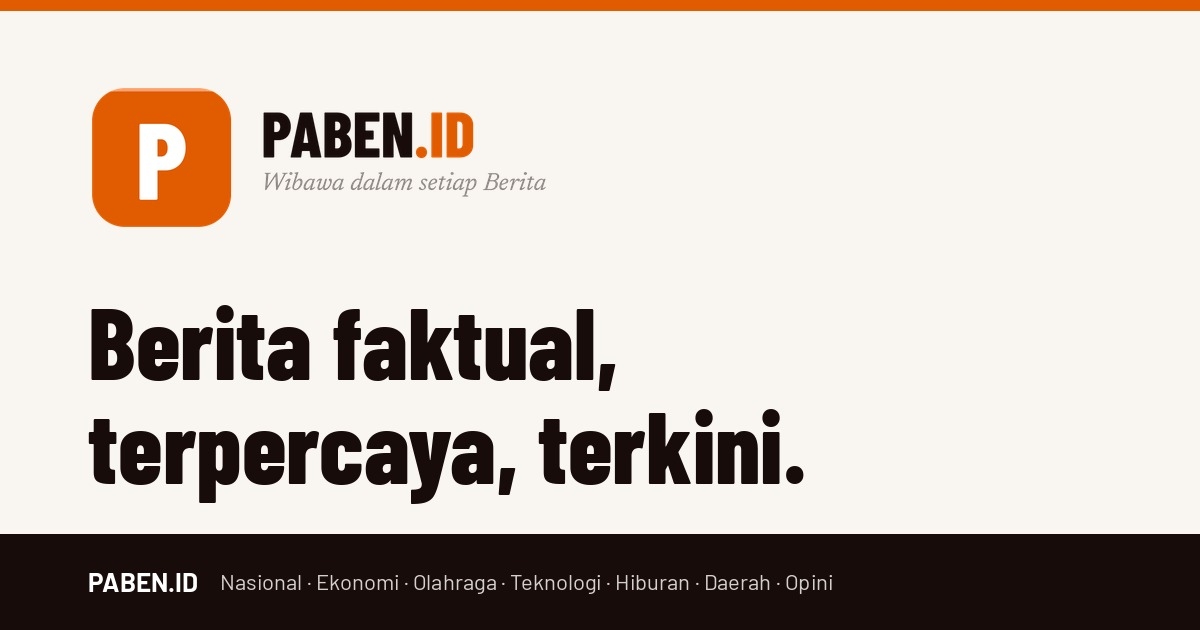
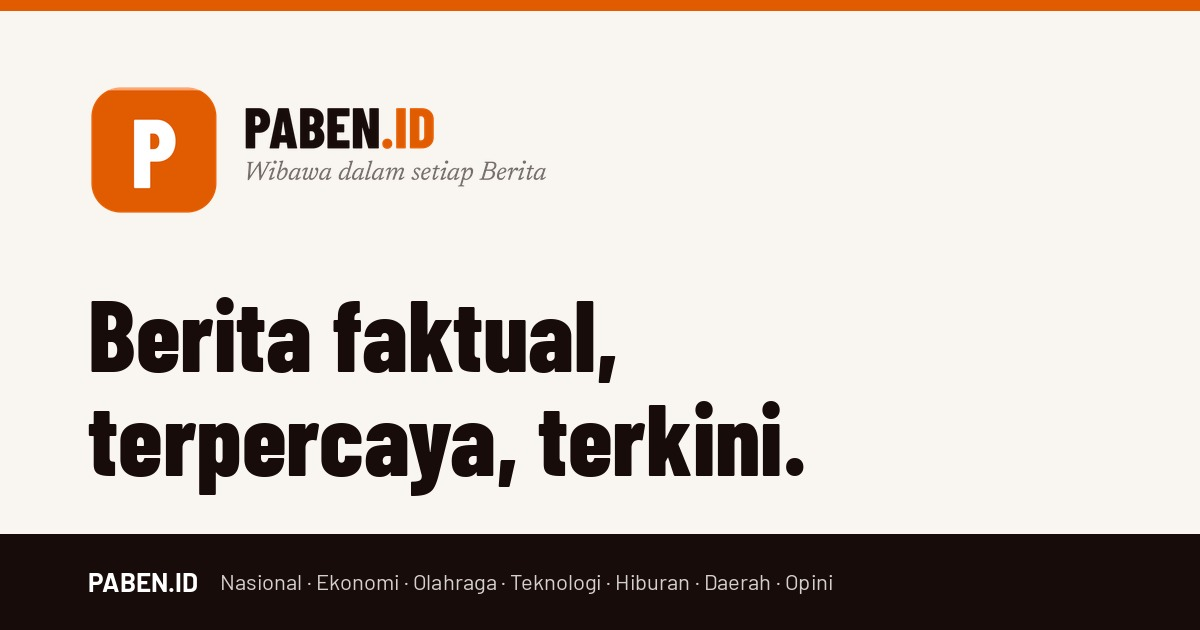
Add files via upload

diff --git a/src/components/Header.tsx b/src/components/Header.tsx
@@ -69,7 +69,7 @@ export const Header: React.FC<HeaderProps> = ({
     <header className="font-sans sticky top-0 z-50 border-b-4 border-[#e15b00] shadow-md">
       {/* Pita atas: latar putih, logo tampil apa adanya tanpa alas tambahan */}
       <div className="bg-white border-b border-stone-200">
-      <div className="flex justify-between items-center h-20 px-4 md:px-6 max-w-7xl mx-auto">
+      <div className="flex justify-between items-center h-24 px-4 md:px-6 max-w-7xl mx-auto">
         {/* Logo & Brand */}
         <div 
           className="flex items-center gap-3 cursor-pointer select-none flex-shrink-0"
@@ -84,7 +84,7 @@ export const Header: React.FC<HeaderProps> = ({
             decoding="async"
             src={logoUrl}
             alt="PABEN.ID - Wibawa dalam setiap Berita"
-            className="h-11 sm:h-12 md:h-14 w-auto object-contain hover:scale-105 transition-transform"
+            className="h-14 sm:h-16 md:h-[68px] w-auto object-contain hover:scale-105 transition-transform"
           />
         </div>
 
@@ -244,18 +244,28 @@ export const Header: React.FC<HeaderProps> = ({
       </div>
       </div>
 
-      {/* Pita kategori: navy, jadi penanda visual antara identitas dan navigasi */}
-      <div className="bg-[#170c0a] text-white">
-      <nav className="hidden lg:flex flex-wrap gap-x-6 gap-y-2 items-center px-4 md:px-6 py-2.5 max-w-7xl mx-auto">
+      {/*
+        Pita kanal — Jingga Tipis.
+
+        Warnanya nyaris sama terang dengan latar halaman (Kertas), jadi yang
+        memisahkan keduanya adalah garis jingga 4px di bawah <header> dan garis
+        putih di atas, bukan kontras warnanya sendiri.
+
+        Kanal dirata-tengahkan dan memakai flex-wrap, jadi menambah atau
+        mengurangi kanal dari panel admin tidak perlu penyesuaian apa pun —
+        barisnya melipat sendiri kalau sudah tidak muat.
+      */}
+      <div className="bg-[#ffece0] border-t border-white">
+      <nav className="hidden lg:flex flex-wrap justify-center gap-x-7 gap-y-2 items-center px-4 md:px-6 py-3 max-w-7xl mx-auto">
         <button
           onClick={() => {
             onSelectCategory('Semua');
             onGoHome();
           }}
-          className={`text-sm font-semibold text-white transition-colors duration-200 cursor-pointer active:scale-95 ${
+          className={`text-sm transition-colors duration-200 cursor-pointer active:scale-95 ${
             selectedCategory === 'Semua'
-              ? 'border-b-2 border-[#e15b00] pb-0.5'
-              : 'hover:text-[#fa9d68]'
+              ? 'font-bold text-[#a63c00] border-b-2 border-[#e15b00] pb-0.5'
+              : 'font-semibold text-[#170c0a] hover:text-[#a63c00]'
           }`}
         >
           Beranda
@@ -267,10 +277,16 @@ export const Header: React.FC<HeaderProps> = ({
               onSelectCategory(cat);
               onGoHome();
             }}
-            className={`text-sm font-semibold text-white transition-colors duration-200 cursor-pointer active:scale-95 ${
+            /*
+             * Kanal aktif memakai Jingga Tua, bukan Jingga Redaksi.
+             * Jingga Redaksi di atas Jingga Tipis hanya 3,2:1 — di bawah
+             * ambang 4,5:1 untuk teks. Jingga Tua mencapai 5,6:1. Garis
+             * bawahnya tetap Jingga Redaksi karena elemen grafis cukup 3:1.
+             */
+            className={`text-sm transition-colors duration-200 cursor-pointer active:scale-95 ${
               selectedCategory === cat
-                ? 'border-b-2 border-[#e15b00] pb-0.5'
-                : 'hover:text-[#fa9d68]'
+                ? 'font-bold text-[#a63c00] border-b-2 border-[#e15b00] pb-0.5'
+                : 'font-semibold text-[#170c0a] hover:text-[#a63c00]'
             }`}
           >
             {cat}

diff --git a/index.html b/index.html
@@ -4,7 +4,7 @@
     <meta charset="UTF-8" />
     <meta name="viewport" content="width=device-width, initial-scale=1.0" />
     <title>PABEN.ID - Wibawa dalam setiap Berita</title>
-    <meta name="description" content="PABEN.ID menyajikan berita faktual, terpercaya, dan terkini seputar nasional, ekonomi, olahraga, teknologi, hiburan, daerah, dan opini." />
+    <meta name="description" content="Wibawa dalam setiap Berita — PABEN.ID menyajikan berita faktual, terpercaya, dan terkini seputar nasional, ekonomi, olahraga, teknologi, hiburan, daerah, dan opini." />
     <meta name="keywords" content="paben, paben id, berita faktual, berita terkini, berita hari ini, portal berita" />
 
     <!--
@@ -44,7 +44,7 @@
     <meta property="og:type" content="website" />
     <meta property="og:site_name" content="PABEN.ID" />
     <meta property="og:title" content="PABEN.ID - Wibawa dalam setiap Berita" />
-    <meta property="og:description" content="PABEN.ID menyajikan berita faktual, terpercaya, dan terkini seputar nasional, ekonomi, olahraga, teknologi, hiburan, daerah, dan opini." />
+    <meta property="og:description" content="Wibawa dalam setiap Berita — PABEN.ID menyajikan berita faktual, terpercaya, dan terkini seputar nasional, ekonomi, olahraga, teknologi, hiburan, daerah, dan opini." />
     <meta property="og:image" content="https://paben.id/og-default.jpg" />
     <meta property="og:image:width" content="1200" />
     <meta property="og:image:height" content="630" />
@@ -53,7 +53,7 @@
     <!-- Twitter/X Card -->
     <meta name="twitter:card" content="summary_large_image" />
     <meta name="twitter:title" content="PABEN.ID - Wibawa dalam setiap Berita" />
-    <meta name="twitter:description" content="PABEN.ID menyajikan berita faktual, terpercaya, dan terkini seputar nasional, ekonomi, olahraga, teknologi, hiburan, daerah, dan opini." />
+    <meta name="twitter:description" content="Wibawa dalam setiap Berita — PABEN.ID menyajikan berita faktual, terpercaya, dan terkini seputar nasional, ekonomi, olahraga, teknologi, hiburan, daerah, dan opini." />
     <meta name="twitter:image" content="https://paben.id/og-default.jpg" />
   </head>
   <body>

diff --git a/middleware.ts b/middleware.ts
@@ -92,7 +92,7 @@ async function fetchArticle(articleId: string) {
 
   return {
     title: stripFirestoreValue(fields.title) ?? SITE_NAME,
-    excerpt: stripFirestoreValue(fields.excerpt) ?? 'Berita Faktual, Terpercaya, Terkini',
+    excerpt: stripFirestoreValue(fields.excerpt) ?? 'Wibawa dalam setiap Berita',
     imageUrl: stripFirestoreValue(fields.imageUrl) ?? DEFAULT_IMAGE,
     category: stripFirestoreValue(fields.category) ?? '',
   };
@@ -183,8 +183,9 @@ export default async function middleware(request: Request) {
       title: 'Wibawa dalam setiap Berita',
       type: 'website',
       description:
-        'PABEN.ID menyajikan berita faktual, terpercaya, dan terkini seputar ' +
-        'nasional, ekonomi, olahraga, teknologi, hiburan, daerah, dan opini.',
+        'Wibawa dalam setiap Berita — PABEN.ID menyajikan berita faktual, ' +
+        'terpercaya, dan terkini seputar nasional, ekonomi, olahraga, ' +
+        'teknologi, hiburan, daerah, dan opini.',
       image: `${origin}/og-default.jpg`,
       imageWidth: 1200,
       imageHeight: 630,

diff --git a/src/components/Footer.tsx b/src/components/Footer.tsx
@@ -36,8 +36,9 @@ export const Footer: React.FC<FooterProps> = ({ categories, onSelectCategory, on
             Wibawa dalam setiap Berita
           </p>
           <p className="text-stone-400 leading-relaxed">
-            PABEN.ID menyajikan berita faktual, terpercaya, dan terkini seputar
-            nasional, ekonomi, olahraga, teknologi, hiburan, daerah, dan opini.
+            Berita faktual, terpercaya, dan terkini seputar nasional, ekonomi,
+            olahraga, teknologi, hiburan, daerah, dan opini — dengan wibawa di
+            setiap beritanya.
           </p>
           <p className="mt-auto text-stone-500 font-mono text-[11px] pt-4">
             © 2026 PABEN.ID. All Rights Reserved.

diff --git a/api/_firestore.js b/api/_firestore.js
@@ -41,7 +41,7 @@ export function siteUrlFrom(req) {
 export const SITE_URL = (process.env.SITE_URL || SITE_URL_FALLBACK).replace(/\/$/, '');
 export const SITE_NAME = 'PABEN.ID';
 export const SITE_DESC =
-  'PABEN.ID menyajikan berita faktual, terpercaya, dan terkini seputar nasional, ekonomi, olahraga, teknologi, hiburan, daerah, dan opini.';
+  'Wibawa dalam setiap Berita — PABEN.ID menyajikan berita faktual, terpercaya, dan terkini seputar nasional, ekonomi, olahraga, teknologi, hiburan, daerah, dan opini.';
 
 function nilai(field) {
   if (!field) return undefined;

diff --git a/src/lib/seo.ts b/src/lib/seo.ts
@@ -20,8 +20,9 @@ import { useEffect } from 'react';
 
 const SITE_NAME = 'PABEN.ID';
 const DEFAULT_DESC =
-  'PABEN.ID menyajikan berita faktual, terpercaya, dan terkini seputar ' +
-  'nasional, ekonomi, olahraga, teknologi, hiburan, daerah, dan opini.';
+  'Wibawa dalam setiap Berita — PABEN.ID menyajikan berita faktual, ' +
+  'terpercaya, dan terkini seputar nasional, ekonomi, olahraga, teknologi, ' +
+  'hiburan, daerah, dan opini.';
 
 export interface SeoOptions {
   /** Judul halaman TANPA " - PABEN.ID" — bagian itu ditambahkan di sini. */

diff --git a/README.md b/README.md
@@ -24,6 +24,21 @@ konsep logo **nomor 1: Glass Bold**.
 hanya di monogram, tombol langganan, dan label TERKINI. Bidang besar lain
 memakai tinta hangat — oranye versi lama terlalu terang untuk blok luas.
 
+> **Menyimpang dari dokumen:** pita kanal memakai **Jingga Tipis** `#FFECE0`
+> dengan teks Tinta, bukan blok Tinta seperti di dokumen. Ini permintaan
+> pemilik situs. Konsekuensinya: Jingga Tipis hampir sama terang dengan
+> Kertas (kontras 1,06:1), jadi yang memisahkan pita dari isi halaman adalah
+> garis jingga 4px di bawah `<header>` — **jangan dihapus**, tanpa garis itu
+> pita kanalnya melebur ke latar.
+>
+> Kanal aktif memakai **Jingga Tua** `#A63C00`, bukan Jingga Redaksi. Jingga
+> Redaksi di atas Jingga Tipis hanya 3,2:1, di bawah ambang 4,5:1 untuk teks;
+> Jingga Tua mencapai 5,6:1. Garis bawahnya tetap Jingga Redaksi karena
+> elemen grafis cukup 3:1.
+>
+> Tagline di lockup dinaikkan dari 11.5u ke 13.5u dan warnanya digelapkan ke
+> Abu Teks — pada tinggi header versi 11.5u terlalu samar untuk dibaca.
+
 Tokennya didefinisikan sekali di `src/index.css` (blok `@theme`), jadi bisa
 dipakai sebagai utility Tailwind: `bg-jingga`, `text-tinta`, `border-garis`,
 dan seterusnya.
@@ -38,13 +53,18 @@ dan seterusnya.
 
 Tagline: *Wibawa dalam setiap Berita*
 
+Slogan ini juga jadi pembuka deskripsi meta di semua halaman, jadi tertulis
+"Wibawa dalam setiap Berita — PABEN.ID menyajikan berita faktual, terpercaya,
+dan terkini seputar ...". Diubah di `src/lib/seo.ts`, `index.html`,
+`middleware.ts`, dan `api/_firestore.js` — keempatnya harus sama.
+
 Aset logo ada di `public/`, semuanya digambar ulang dari spesifikasi Glass
 Bold (kotak jingga radius 15/64, huruf P Barlow Condensed 800 putih digeser
 2/64 ke bawah untuk keseimbangan optis, sorot tipis di tepi atas):
 
-- `logo-wordmark.png` — lockup utama: monogram + PABEN.ID + tagline. Proporsinya
-  persis mengikuti dokumen (monogram 64u, wordmark 22u, tagline 11.5u, jarak 14u)
-  supaya tagline tetap terbaca di tinggi header
+- `logo-wordmark.png` — lockup utama: monogram + PABEN.ID + tagline. Proporsi
+  dari dokumen (monogram 64u, wordmark 22u, jarak 14u), kecuali tagline yang
+  dinaikkan ke 13.5u dan digelapkan agar terbaca di tinggi header 68px
 - `logo-wordmark-plain.png` — lockup tanpa tagline, untuk tempat sangat sempit
 - `logo-icon-512.png` — ikon aplikasi
 - `favicon.ico`, `favicon-32.png`, `apple-touch-icon.png`
